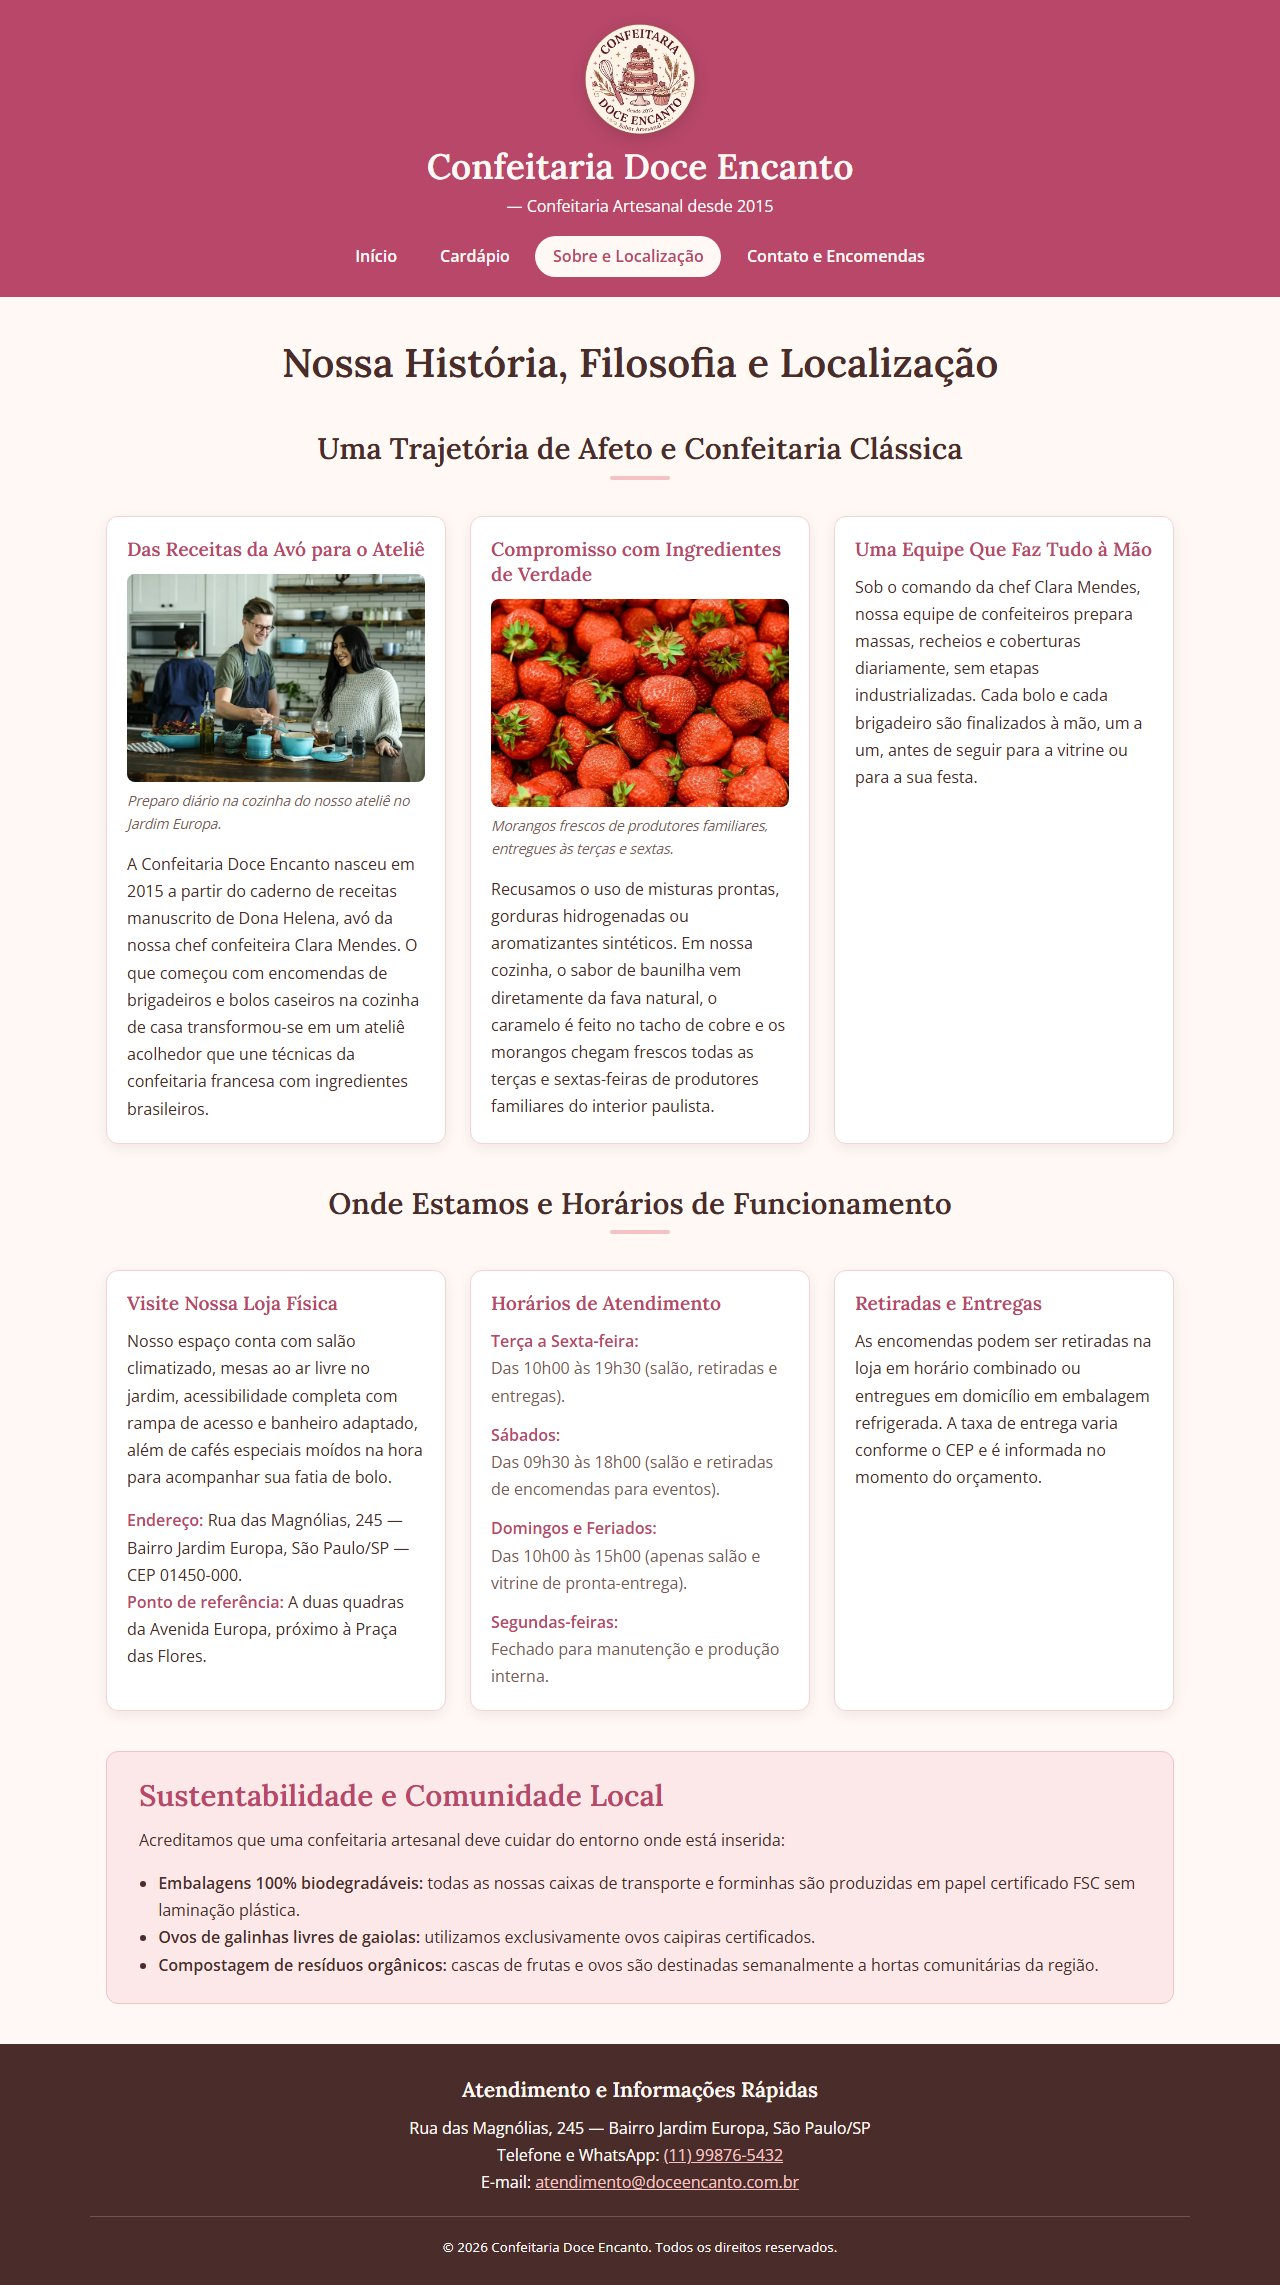
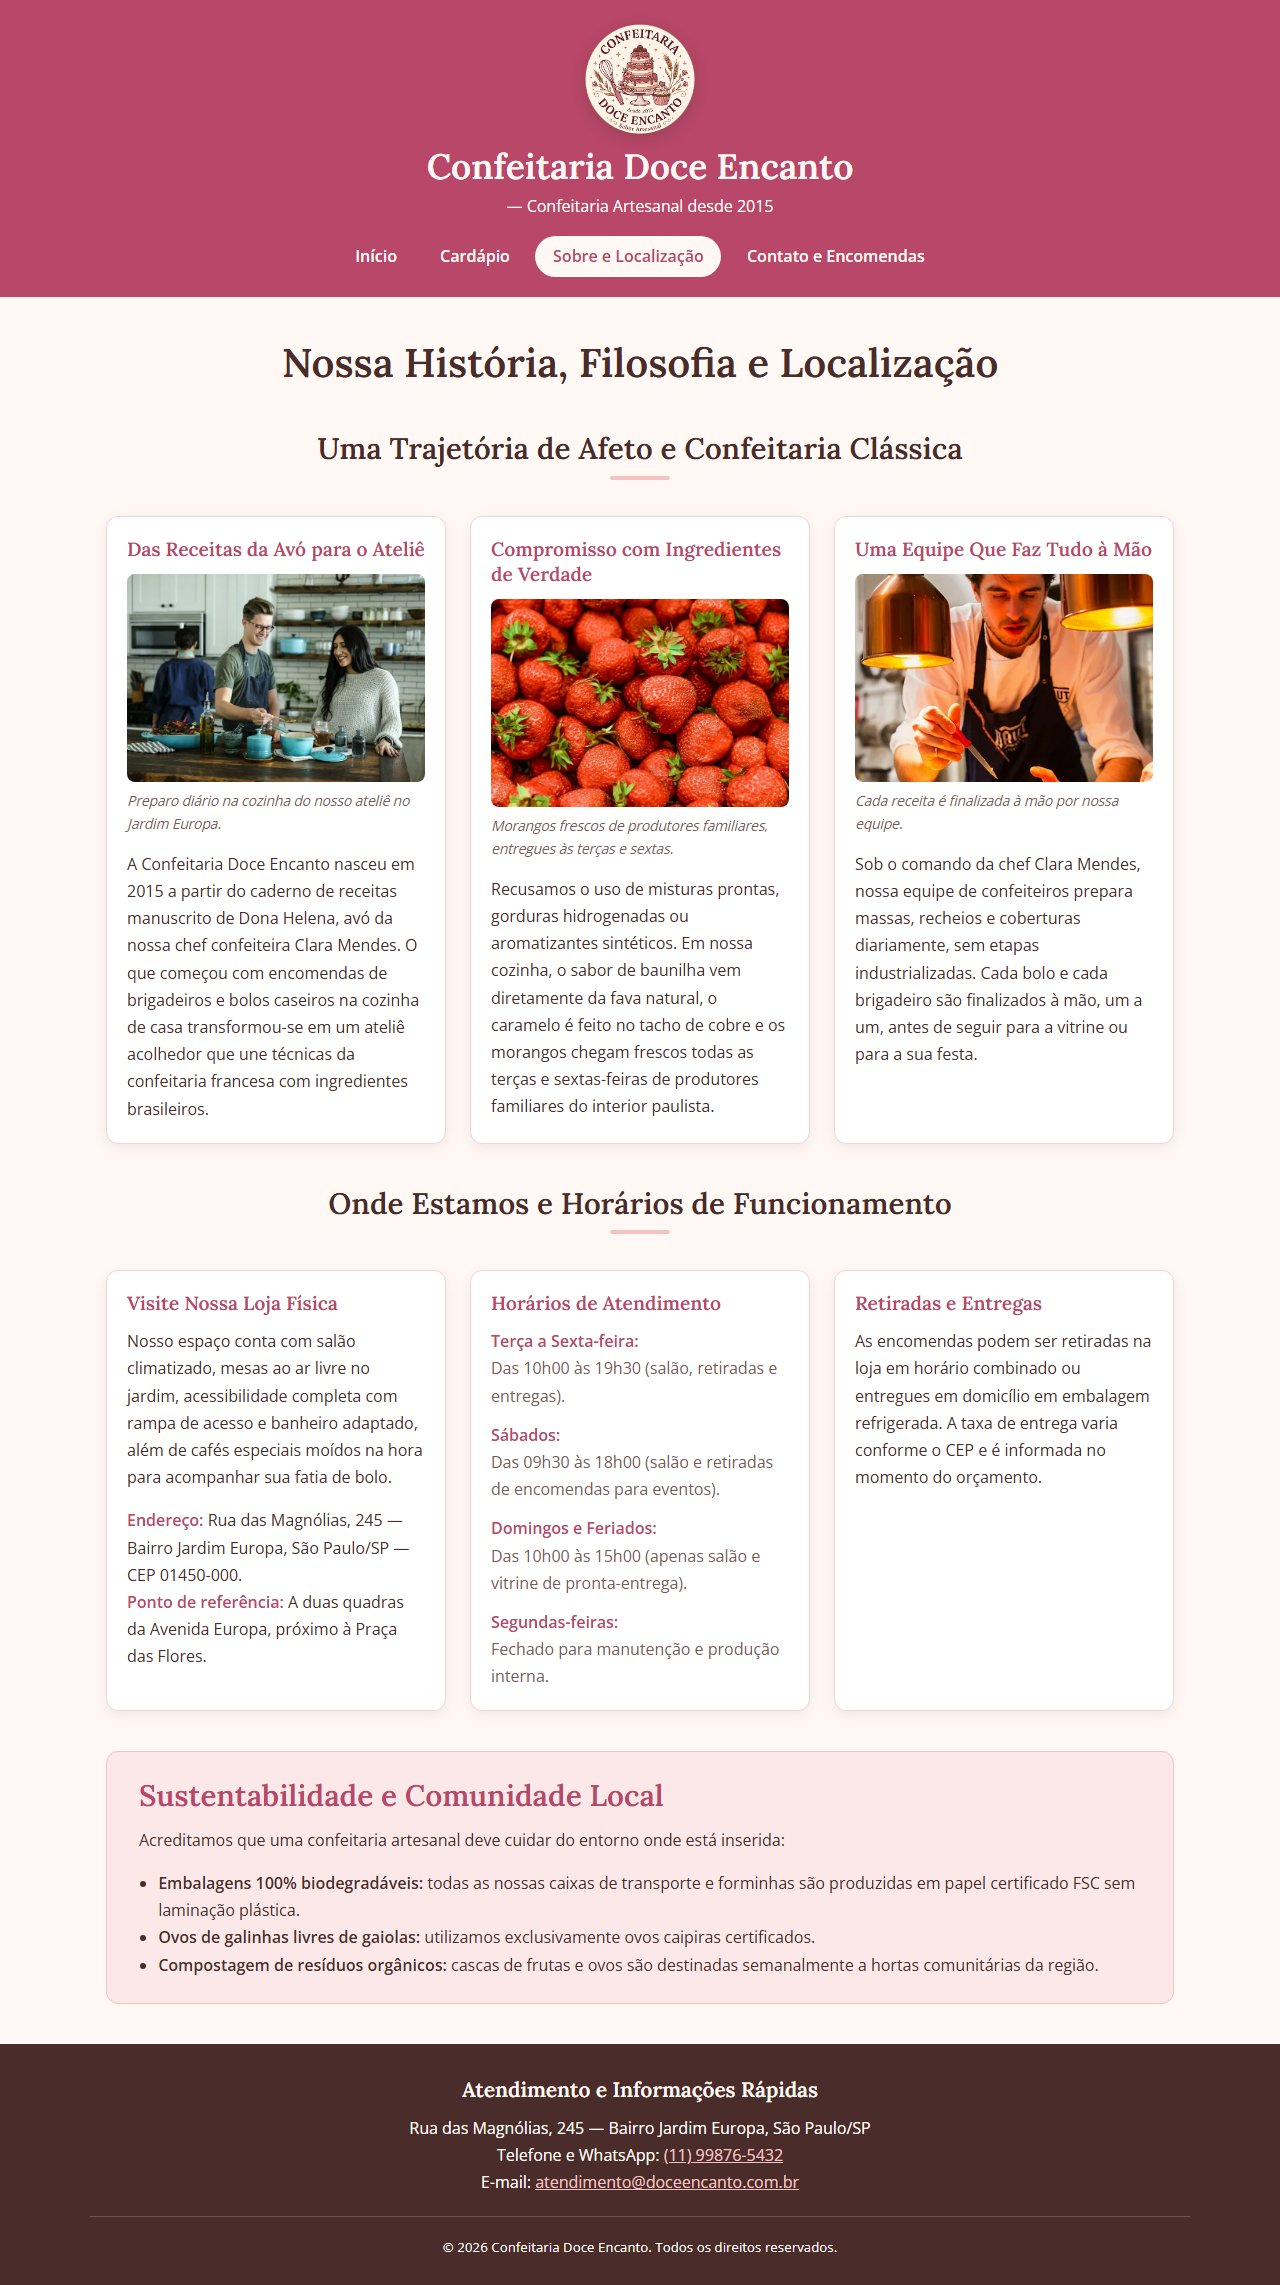
Adiciona imagem ao card da equipe em Sobre e atualiza os prints

Changed region(s): [[0.6562, 0.2486, 0.9062, 0.4661]]

diff --git a/sobre.html b/sobre.html
@@ -61,6 +61,12 @@
 
             <article>
                 <h3>Uma Equipe Que Faz Tudo à Mão</h3>
+                <figure>
+                    <img src="img/equipe-confeiteiros.webp"
+                        alt="Confeiteiro de avental finalizando um prato com delicadeza sob a luz de um balcão de cozinha."
+                        width="400" height="280">
+                    <figcaption>Cada receita é finalizada à mão por nossa equipe.</figcaption>
+                </figure>
                 <p>Sob o comando da chef Clara Mendes, nossa equipe de confeiteiros prepara massas, recheios e
                     coberturas diariamente, sem etapas industrializadas. Cada bolo e cada brigadeiro são finalizados à
                     mão, um a um, antes de seguir para a vitrine ou para a sua festa.</p>
